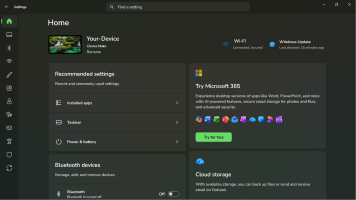
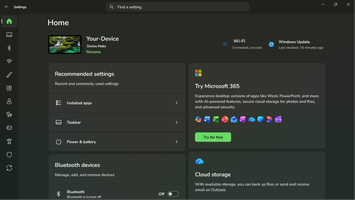
Blue readme tweaks, other misc tweaks

diff --git a/Themes/Blue/README.md b/Themes/Blue/README.md
@@ -1,65 +1,64 @@
-# Blue theme for Win11 Settings Styler
+# Blue theme for Windows 11 Settings Styler
+
 This theme makes the Settings app blue.
 
 **Author**: [FireBlade](https://github.com/FireBlade211)
 
+![Screenshot](screenshot.png)
+
 ## Installation
+
 To import the theme styles:
 
-1. Open the Windows 11 Settings Styler mod in Windhawk
-2. Go to the Settings tab and select Textual Mode
-3. Copy and paste the content below into the box and click **Save settings**:
+* Open the Windows 11 Settings Styler mod in Windhawk.
+* Go to the "Settings" tab and select "Textual mode".
+* Copy the content below to the text box and click "Save settings".
 
 <details>
-<summary>Content (click to expand)</summary>
+<summary>Content to import (click to expand)</summary>
 
 ```yaml
-theme: ''
-styleConstants:
-  - ''
 controlStyles:
   - target: Frame#PermanentNavRootFrame
     styles:
-      - Background:=#03A5FC
+      - Background=#03A5FC
   - target: SystemSettings.View.EntityItem
     styles:
-      - Background:=#0373FC
-      - Foreground:=White
+      - Background=#0373FC
+      - Foreground=White
   - target: Microsoft.UI.Xaml.Controls.NavigationView#PermanentNavigationView
     styles:
-      - Background:=#03ADFC
-      - Foreground:=White
+      - Background=#03ADFC
+      - Foreground=White
   - target: ContentPresenter
     styles:
-      - Foreground:=Black
+      - Foreground=Black
   - target: ContentPresenter#SubtitleContent
     styles:
-      - Foreground:=White
+      - Foreground=White
   - target: StackPanel#BackgroundStackPanel
     styles:
-      - Background:=Blue
+      - Background=Blue
   - target: TextBlock#TitleContent
     styles:
-      - Foreground:=White
+      - Foreground=White
   - target: ContentPresenter#TitleContent
     styles:
-      - Foreground:=White
+      - Foreground=White
   - target: ContentPresenter#IconContentPresenter
     styles:
-      - Foreground:=White
+      - Foreground=White
   - target: Button#ContainerButton
     styles:
-      - Background:=Blue
+      - Background=Blue
   - target: SystemSettings.View.ReactNativeExperienceViewControl
     styles:
-      - Background:=Blue
+      - Background=Blue
   - target: SystemSettings.View.TwoSegmentsHeroUserControl#OneSegmentHeroEntityItemUserControl
     styles:
-      - Background:=DeepSkyBlue
+      - Background=DeepSkyBlue
   - target: SystemSettings.View.SettingsNavigationViewItem > Grid#NVIRootGrid > NavigationViewItemPresenter > Grid#LayoutRoot > Grid#PresenterContentRootGrid > Grid#ContentGrid > ContentPresenter > TextBlock
     styles:
-      - Foreground:=White
-themeResourceVariables:
-  - ''
+      - Foreground=White
 ```
 </details>

diff --git a/README.md b/README.md
@@ -63,8 +63,8 @@ Settings Styler mod. The following themes are available:
 | ----- | ----------
 | [Densy](Themes/Densy/README.md) | [![Densy](Themes/Densy/screenshot-small.png)](Themes/Densy/screenshot.png)
 | [ClassicSearchBar](Themes/ClassicSearchBar/README.md) | [![ClassicSearchBar](Themes/ClassicSearchBar/screenshot-small.png)](Themes/ClassicSearchBar/screenshot.png)
-| [StoreFrame11](Themes/StoreFrame11/README.md) | [![ClassicSearchBar](Themes/StoreFrame11/screenshot-small.png)](Themes/StoreFrame11/screenshot.png)
-| [Blue](Themes/Blue/README.md) | <img src="Themes/Blue/screenshot.png" width="400" height="300"/>
+| [StoreFrame11](Themes/StoreFrame11/README.md) | [![StoreFrame11](Themes/StoreFrame11/screenshot-small.png)](Themes/StoreFrame11/screenshot.png)
+| [Blue](Themes/Blue/README.md) | [![Blue](Themes/Blue/screenshot-small.png)](Themes/Blue/screenshot.png)
 
 ## General
 